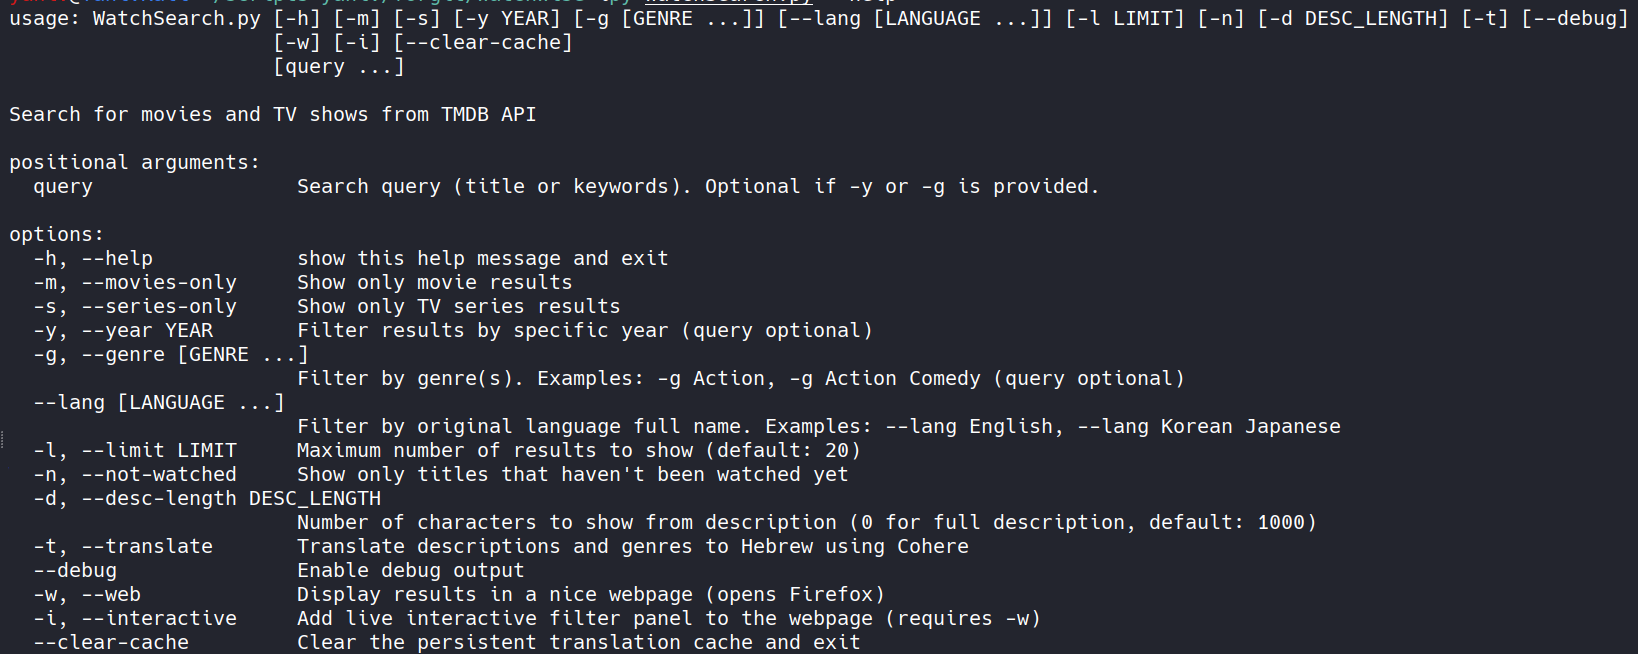
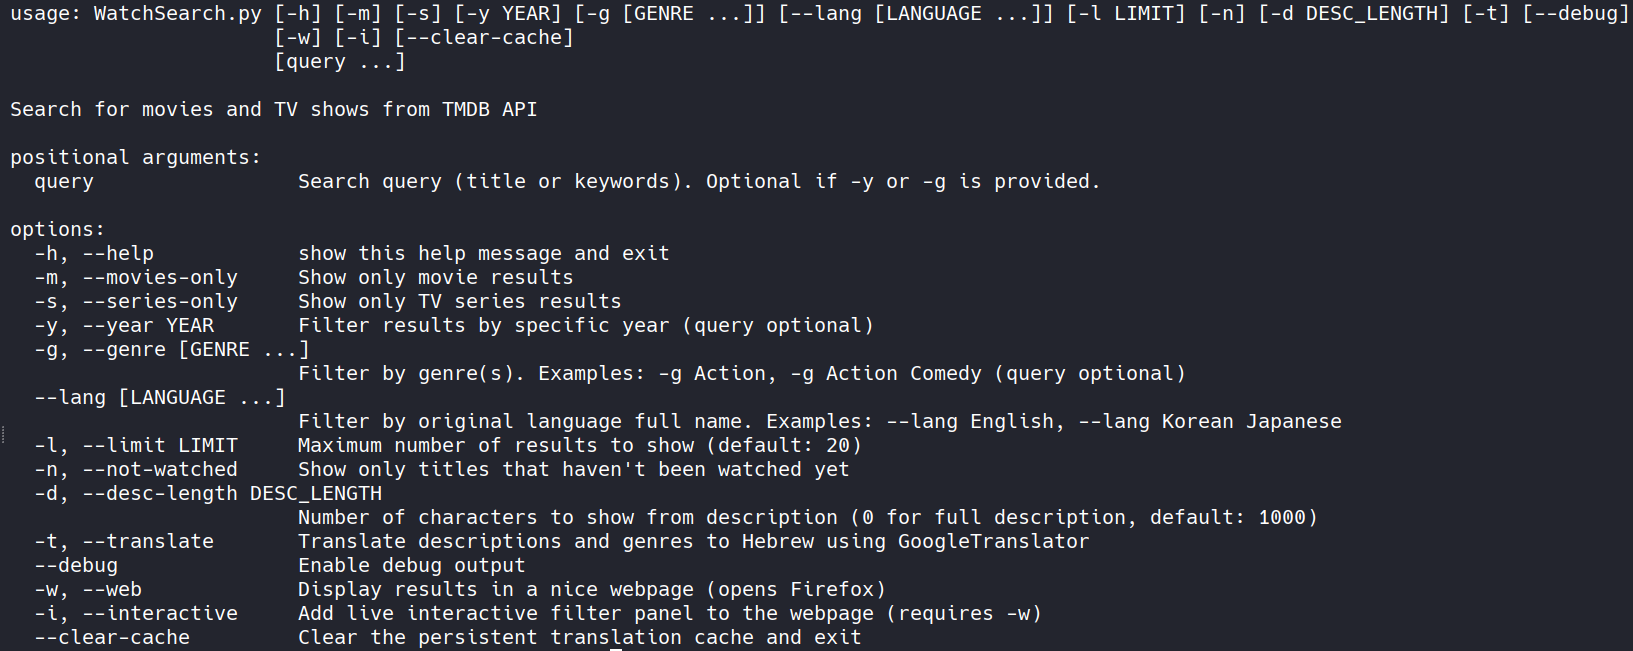
update

diff --git a/WatchSearch.py b/WatchSearch.py
@@ -263,7 +263,7 @@ def parse_arguments():
 
     parser.add_argument("-t", "--translate",
                         action="store_true",
-                        help="Translate descriptions and genres to Hebrew using Cohere")
+                        help="Translate descriptions and genres to Hebrew using GoogleTranslator")
 
     parser.add_argument("--debug",
                         action="store_true",
